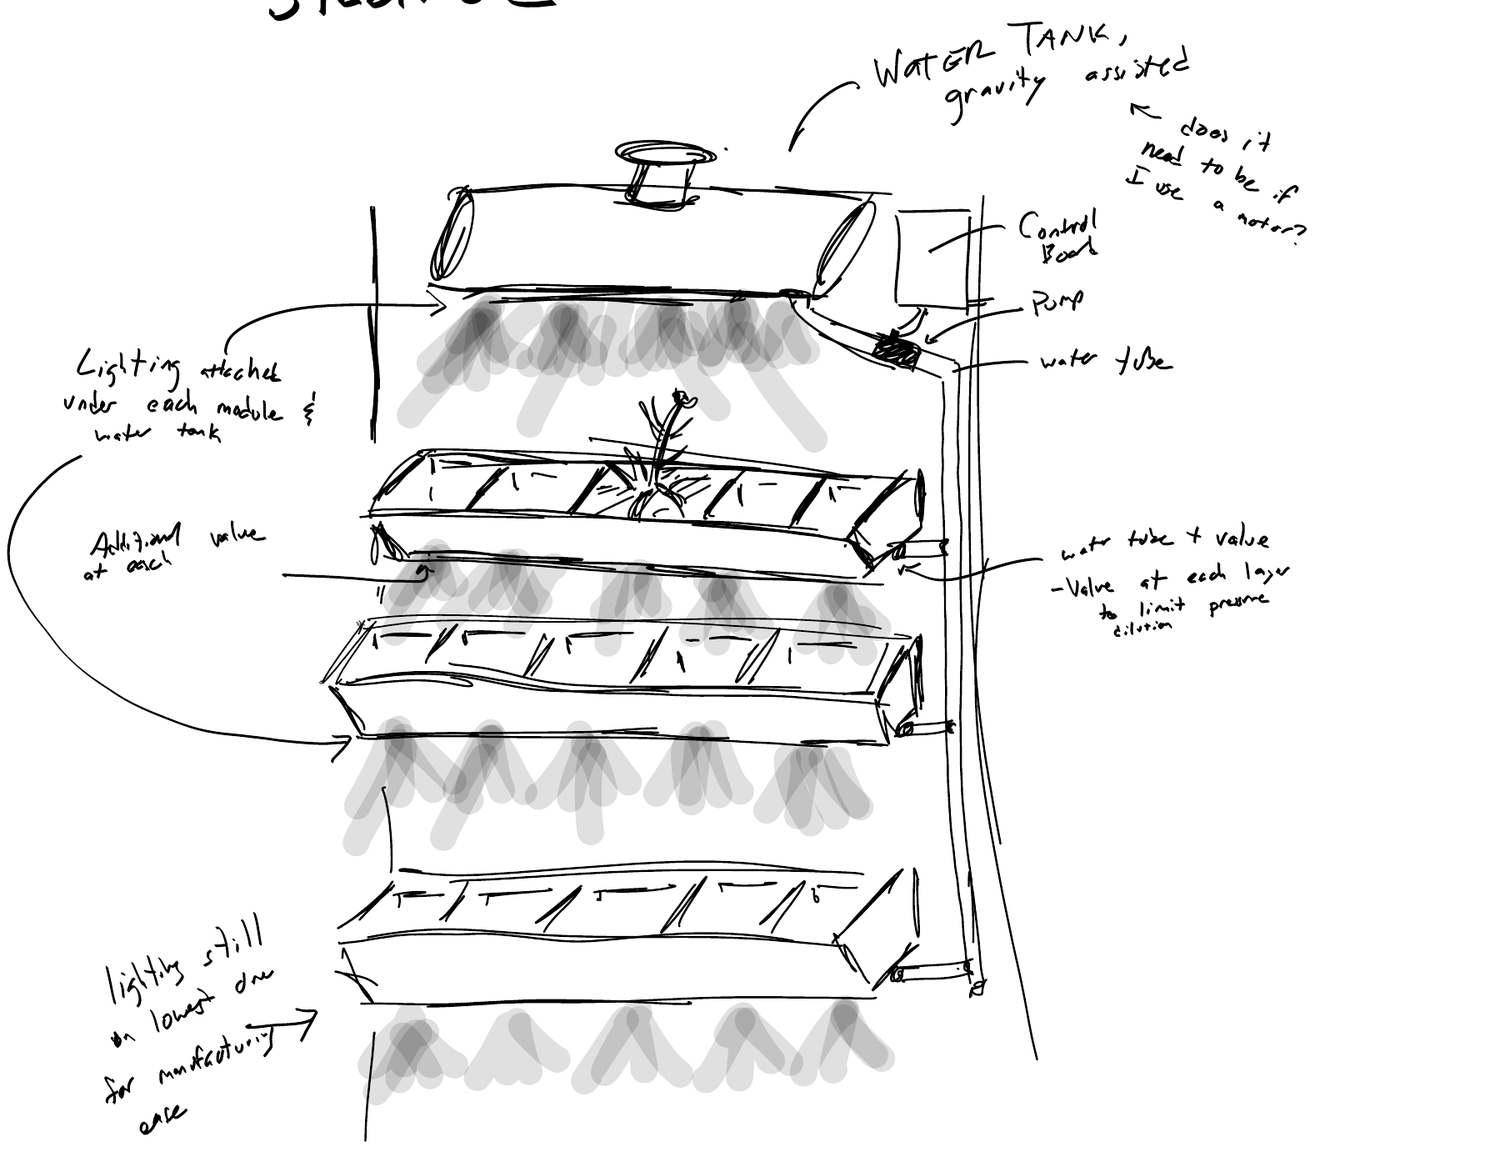
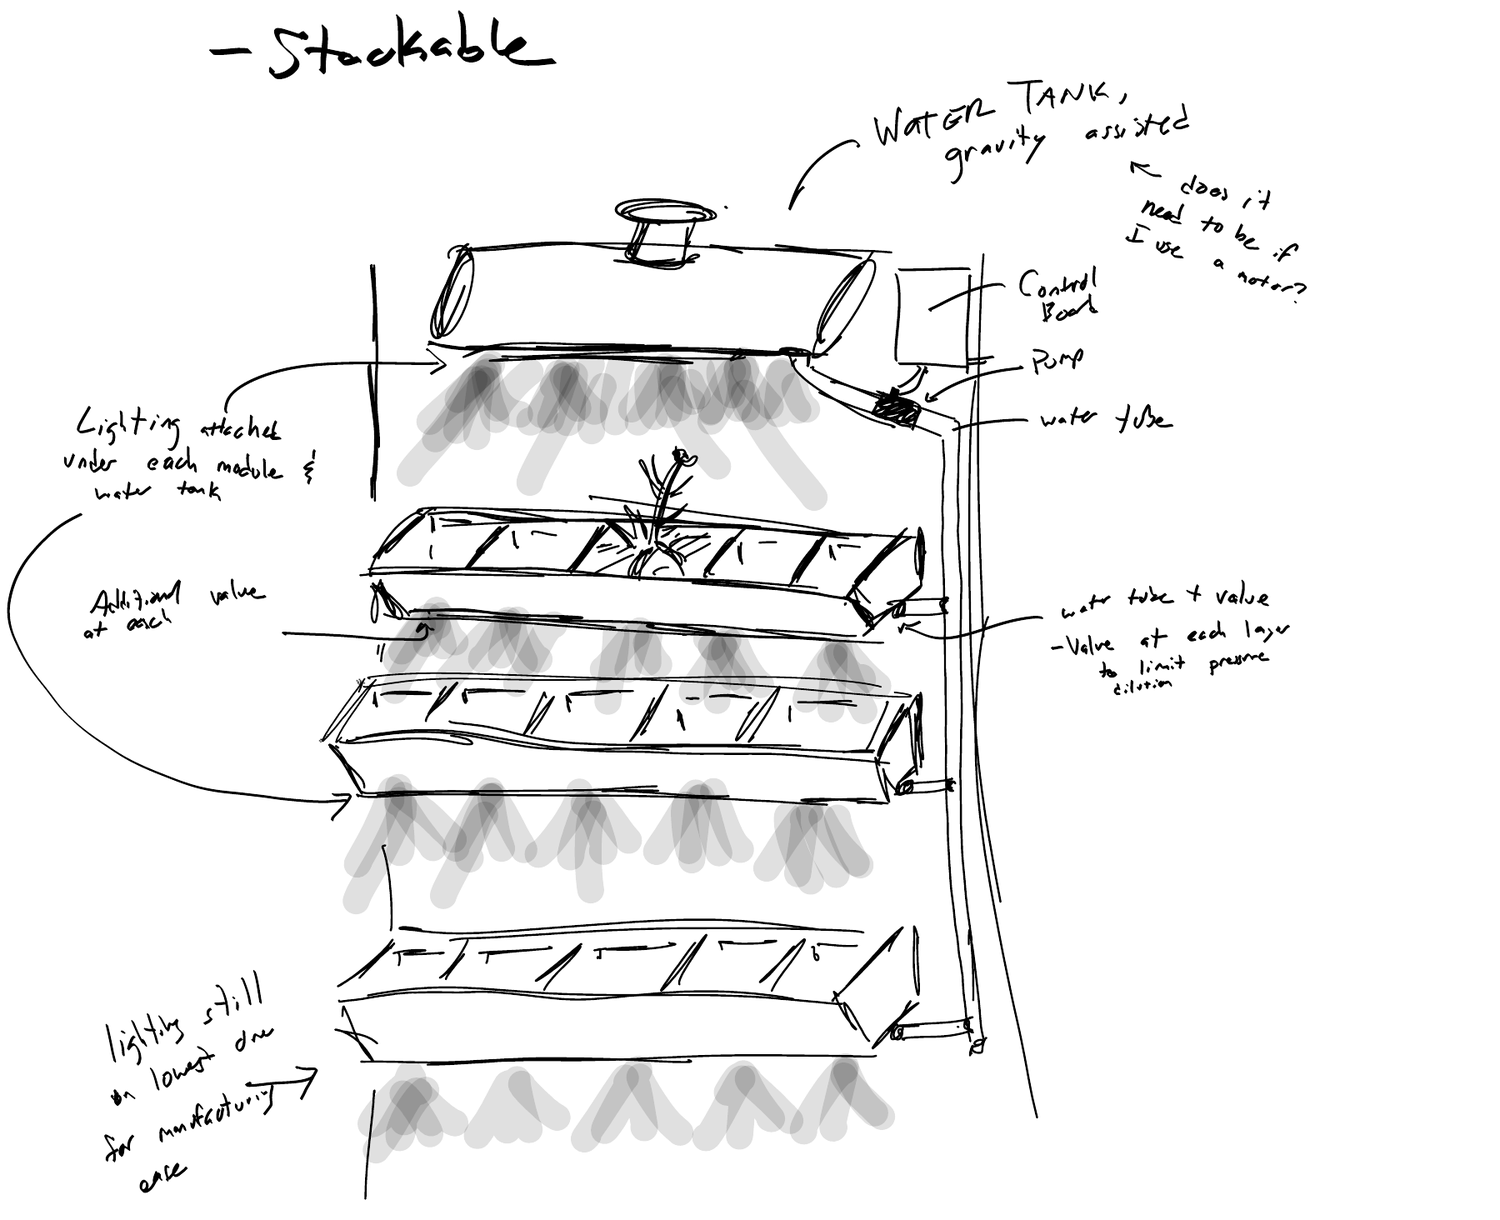
Links, formatting

diff --git a/index.html b/index.html
@@ -290,7 +290,7 @@ footer { margin-top: 80px; padding-block: 24px 48px; border-top: 1px solid var(-
 
       <div class="cards" role="list">
         <a class="card c-plant" role="listitem" href="#plant">
-          <div class="cover"><img src="plant-concept.png" width="1500" height="1162" alt="Hand sketch of the plant wall: a water tank on top, stacked planter rows with lights, and a pump and tube down one side"></div>
+          <div class="cover"><img src="plant-concept.png" width="1500" height="1220" alt="Hand sketch of the plant wall: a water tank on top, stacked planter rows with lights, and a pump and tube down one side"></div>
           <div class="body">
             <div class="num"><span>Project 01</span><span class="pill">Planning</span></div>
             <h3>Autonomous Plant Wall</h3>
@@ -335,6 +335,7 @@ footer { margin-top: 80px; padding-block: 24px 48px; border-top: 1px solid var(-
         </div>
       </div>
 
+      <p class="note">Full notebook: <a href="https://drive.google.com/file/d/1kl6QKHEIeUdE1FEalC4yS5pAjoq6SP7s/view?usp=sharing">open the BOOX notebook</a></p>
       <dl class="facts">
         <div><dt>Goal</dt><dd>Covers watering and light, stackable</dd></div>
         <div><dt>Language</dt><dd>Rust, to learn it</dd></div>
@@ -371,7 +372,7 @@ footer { margin-top: 80px; padding-block: 24px 48px; border-top: 1px solid var(-
             </ul>
             <figure class="sk hand">
               <figcaption><b>First concept.</b> A gravity assisted water tank on top (does it still need to be, if I use a motor?), a control board and pump on the side, a water tube with a valve at each layer to limit pressure dilution, and lights under each module and the tank. Lighting stays on the lowest layer for manufacturing ease.</figcaption>
-              <img src="plant-concept.png" width="1500" height="1162" alt="Sketch of the plant wall: water tank on top, control board, pump and water tube on the right, three stacked planter rows with lights underneath, and a valve at each layer." loading="lazy">
+              <img src="plant-concept-full.png" width="1500" height="1840" alt="Intro page: notes on an autonomous plant wall, then a sketch of the plant wall: water tank on top, control board, pump and water tube on the right, three stacked planter rows with lights underneath, and a valve at each layer." loading="lazy">
             </figure>
           </article>
 
@@ -396,7 +397,7 @@ footer { margin-top: 80px; padding-block: 24px 48px; border-top: 1px solid var(-
             <h3>Hardware</h3>
             <p class="lead">The parts I think I need.</p>
             <div class="bom">
-              <div class="brow"><span class="nm">Primary Board</span><span class="nt">STM32 Nucleo-64 development board with STM32F446RE MCU, good for learning, gives me a chance to create my own firmware and software from scratch.</span></div>               
+              <div class="brow"><span class="nm">Primary Board</span><span class="nt">STM32 Nucleo-64 development board with STM32F446RE MCU, good for learning, gives me a chance to create my own firmware and software from scratch.</span></div>
               <div class="brow"><span class="nm">Pump or motor</span><span class="nt">Moves the water. An auto windshield washer pump should be reliable enough and common enough.</span></div>
               <div class="brow"><span class="nm">Valves</span><span class="nt">One for each module and each row.</span></div>
               <div class="brow"><span class="nm">Tubing</span><span class="nt">Auto windshield washer diameter, to keep it consistent and cheap.</span></div>
@@ -516,6 +517,7 @@ footer { margin-top: 80px; padding-block: 24px 48px; border-top: 1px solid var(-
       </div>
 
       <div class="label">Notes from the sketchbook</div>
+      <p class="note">Full notebook: <a href="https://drive.google.com/file/d/1E1YdGZxQlou4Xevd5c7-vfD_76FqWapn/view?usp=sharing">open the BOOX notebook</a></p>
       <div class="row first" style="--n:1">
         <figure class="sk">
           <figcaption><b>Goal.</b> Turn the Razr into a slide phone: no big screen, a slide or rotate QWERTY, slightly taller, and thinner than the full fold.</figcaption>
